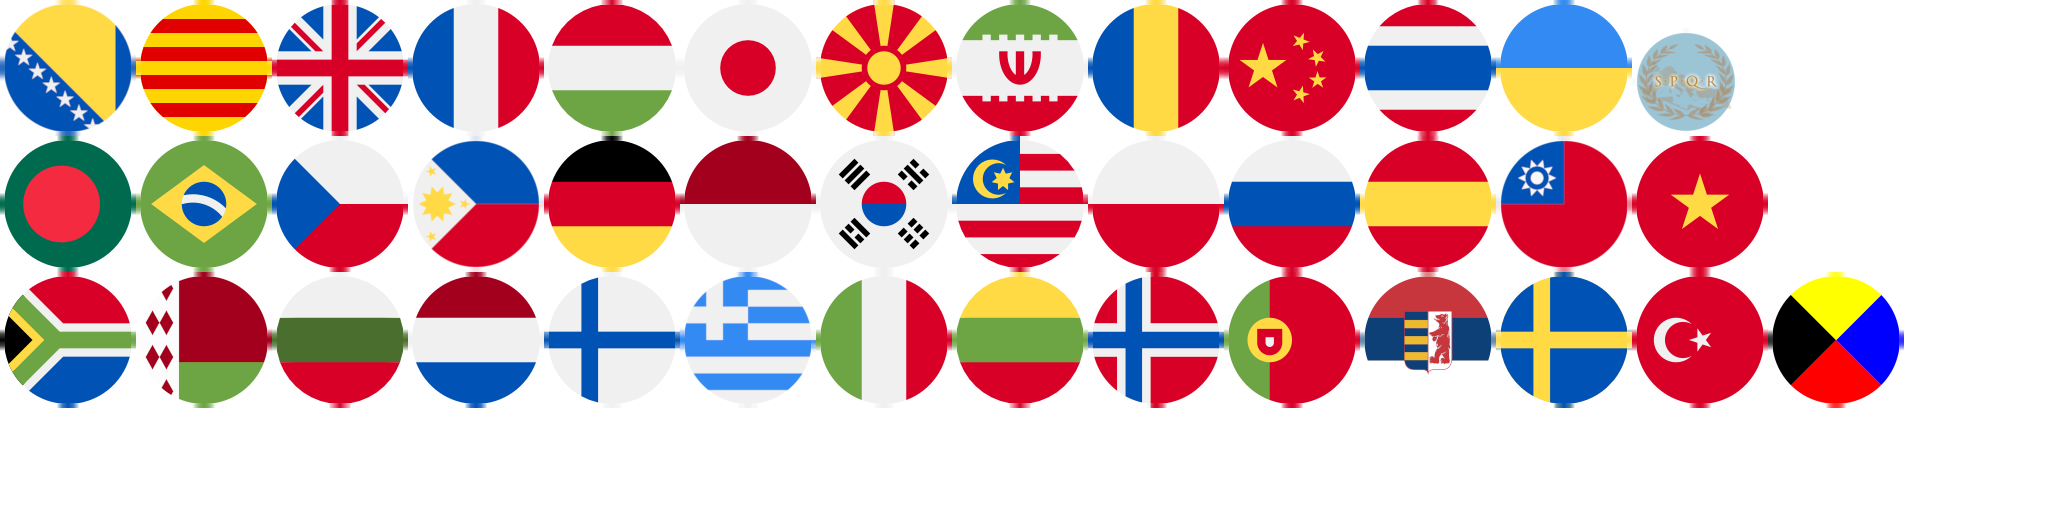
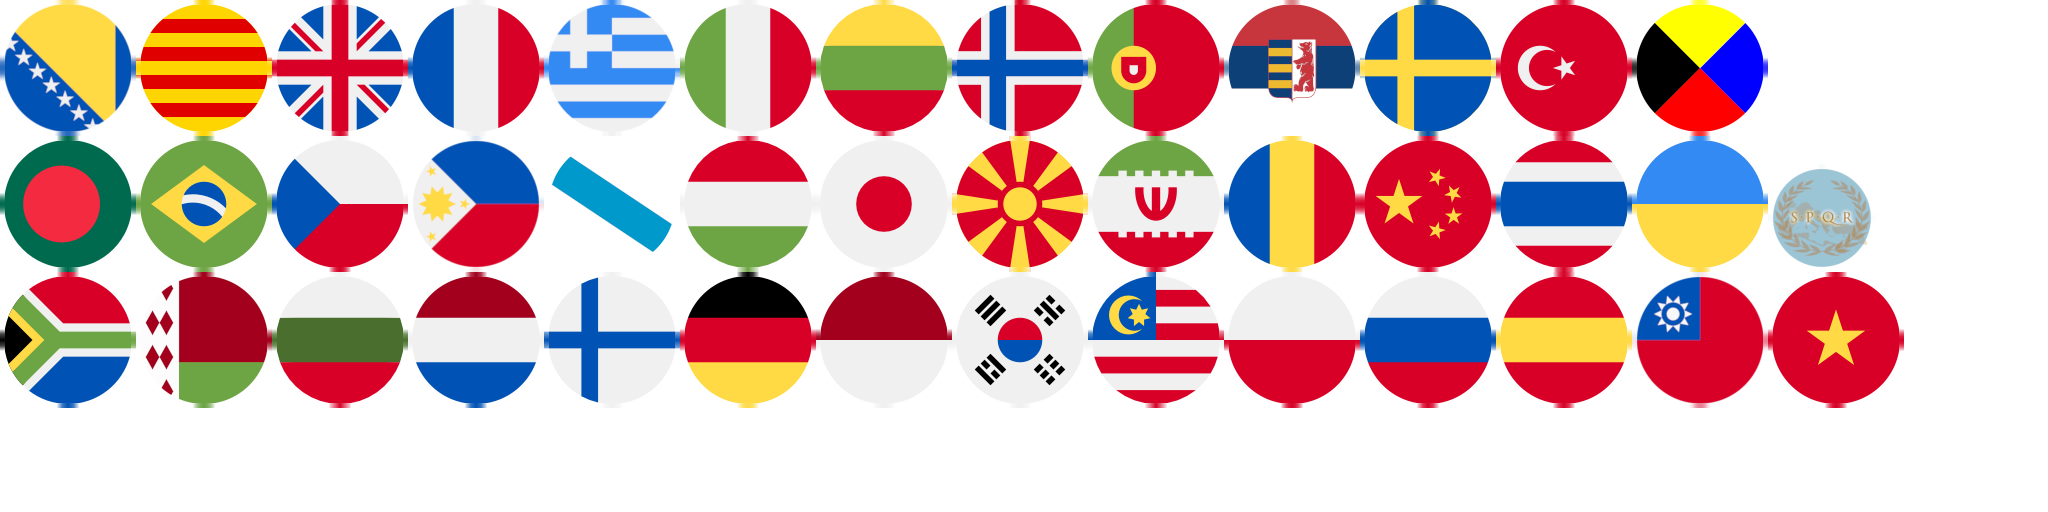
Galician support (#11742)
* Galician support

* Redo Flags.atlas

Changed region(s): [[0.25, 0.0, 0.9375, 0.8125], [0.8125, 0.7812, 0.8438, 0.8125]]

diff --git a/core/src/com/unciv/models/metadata/GameSettings.kt b/core/src/com/unciv/models/metadata/GameSettings.kt
@@ -262,7 +262,7 @@ class GameSettings {
     /** Map Unciv language key to Java locale, for the purpose of getting a Collator for sorting.
      *  - Effect depends on the Java libraries and may not always conform to expectations.
      *    If in doubt, debug and see what Locale instance you get and compare its properties with `Locale.getDefault()`.
-     *    (`Collator.getInstance(LocaleCode.*.run { Locale(language, country) }) to Collator.getInstance())`, drill to both `rules`, compare hashes - if equal and other properties equal, then Java doesn't know your Language))
+     *    (`Collator.getInstance(LocaleCode.*.run { Locale(language, country) }) to Collator.getInstance()`, drill to both `rules`, compare hashes - if equal and other properties equal, then Java doesn't know your Language))
      *  @property name same as translation file name with ' ', '_', '-', '(', ')' removed
      *  @property language ISO 639-1 code for the language
      *  @property country ISO 3166 code for the nation this is predominantly spoken in

diff --git a/docs/Credits.md b/docs/Credits.md
@@ -9,6 +9,7 @@ Flag Icons made by [Freepik](https://www.flaticon.com/authors/freepik) from [www
 -   [Rusyn flag] gimped from the wikipedia flag [Flag of Pannonian Rusyns](https://en.wikipedia.org/wiki/File:Flag_of_Rusyns_in_Serbia.svg) (CC-BY-SA 4.0)
 -   [Latin flag] made from [wikipedia entry for SPQR](https://en.wikipedia.org/wiki/SPQR#/media/File:Roman_SPQR_banner.svg), Creative Commons Attribution 3.0 Unported
 -   [Zulu flag] made from [wikipedia entry for the Z flag](https://en.wikipedia.org/wiki/Z_flag#/media/File:ICS_Zulu.svg): public domain
+-   [Galician flag] made from [wikipedia asset for the civil flag of Galicia](https://en.wikipedia.org/wiki/File:Flag_of_Galicia_(civil).svg): public domain
 
 New Unciv logo made by u-ndefined on Discord
 
